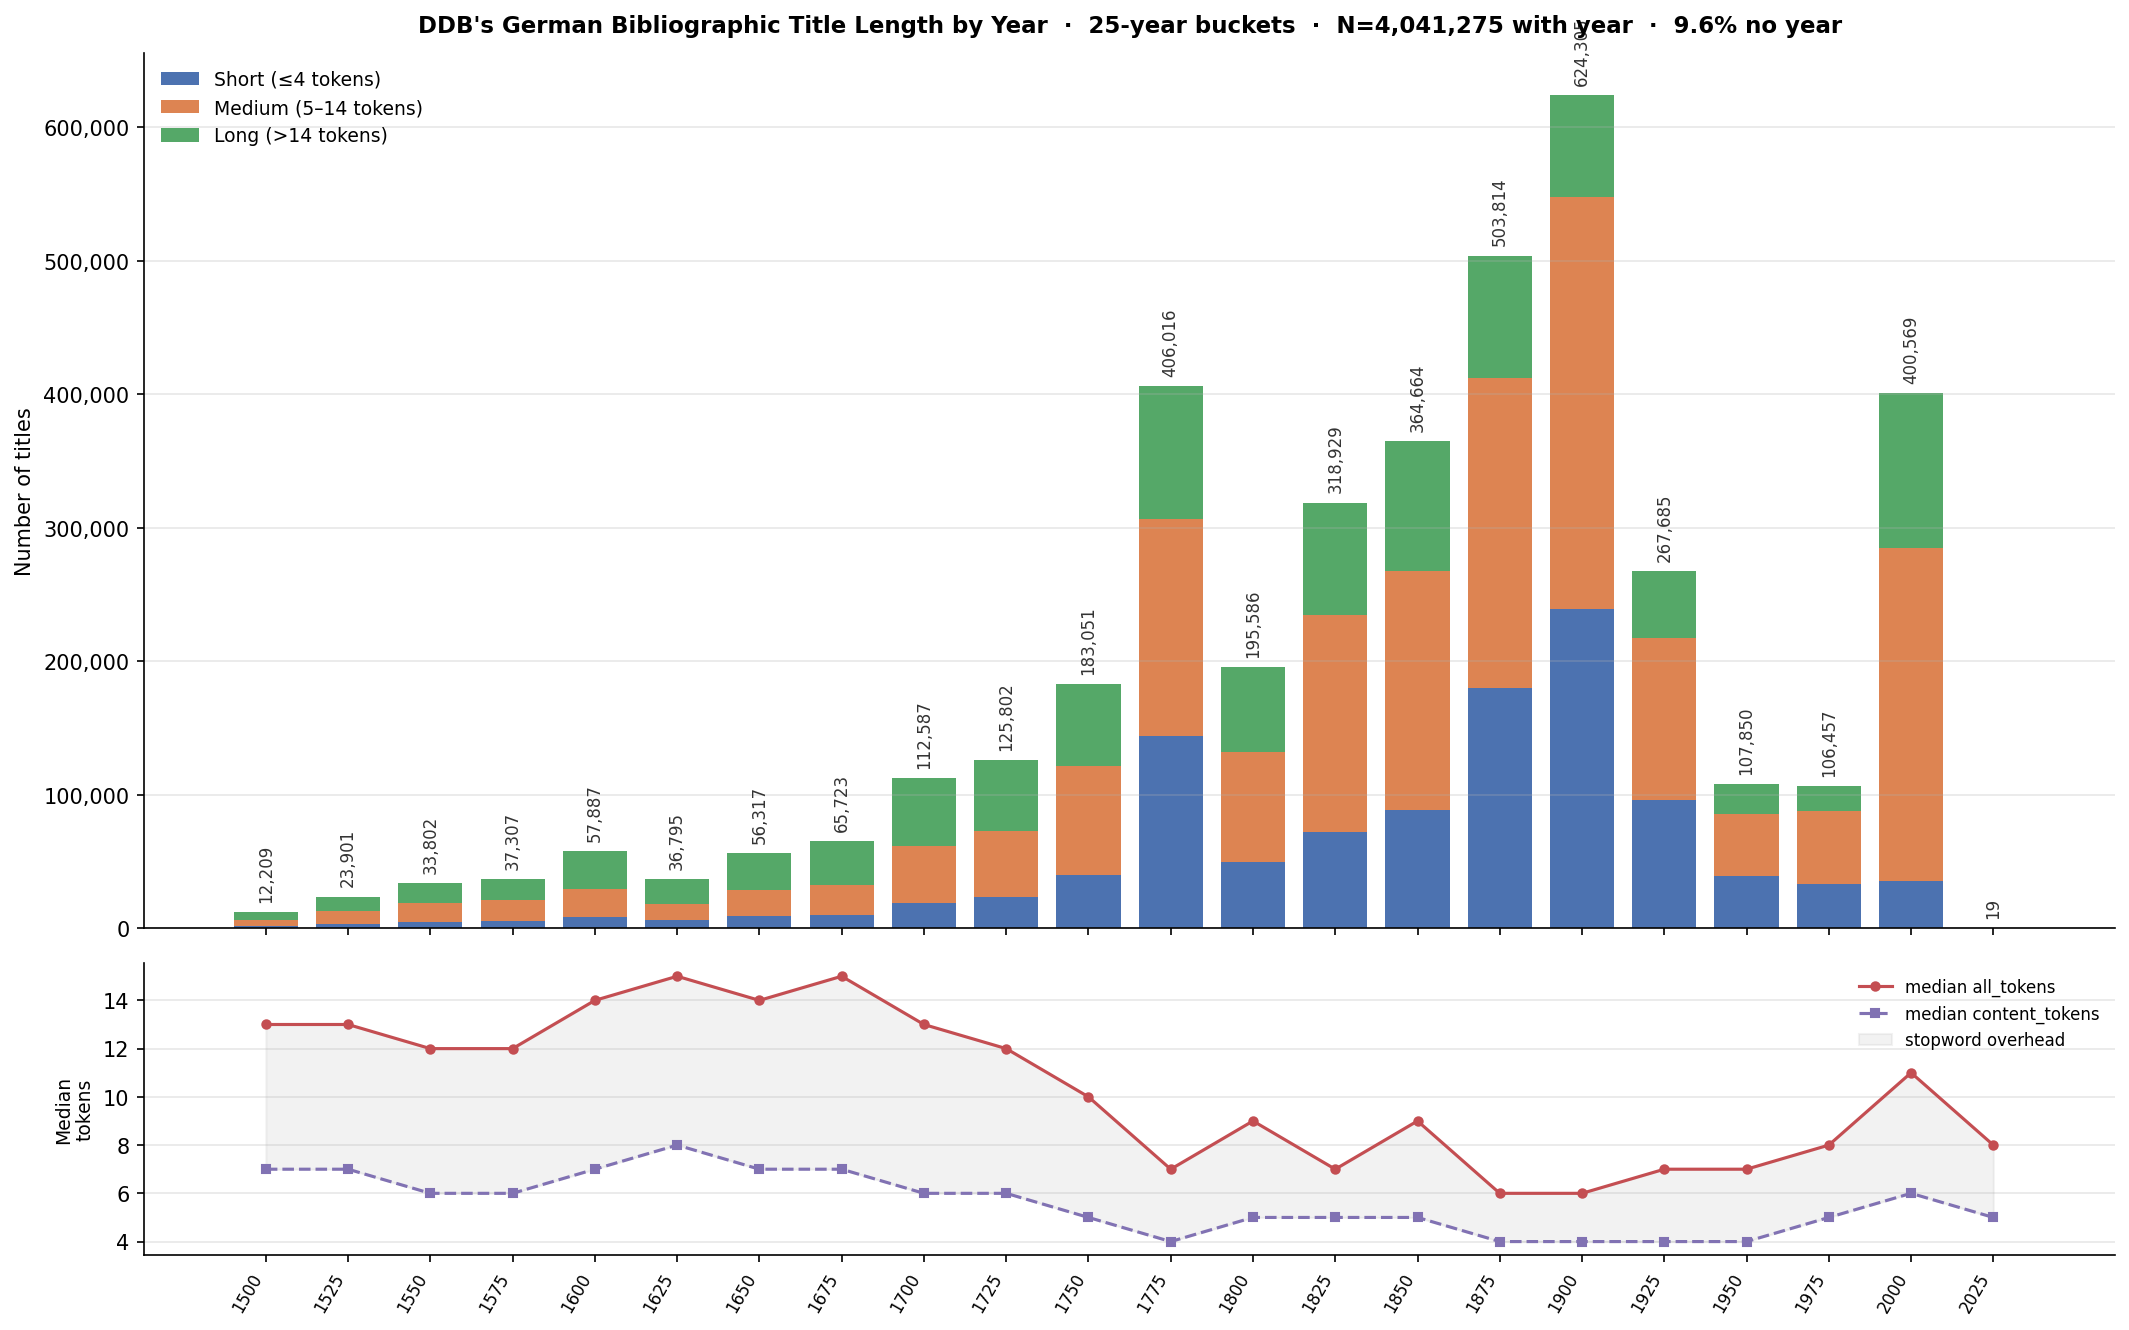
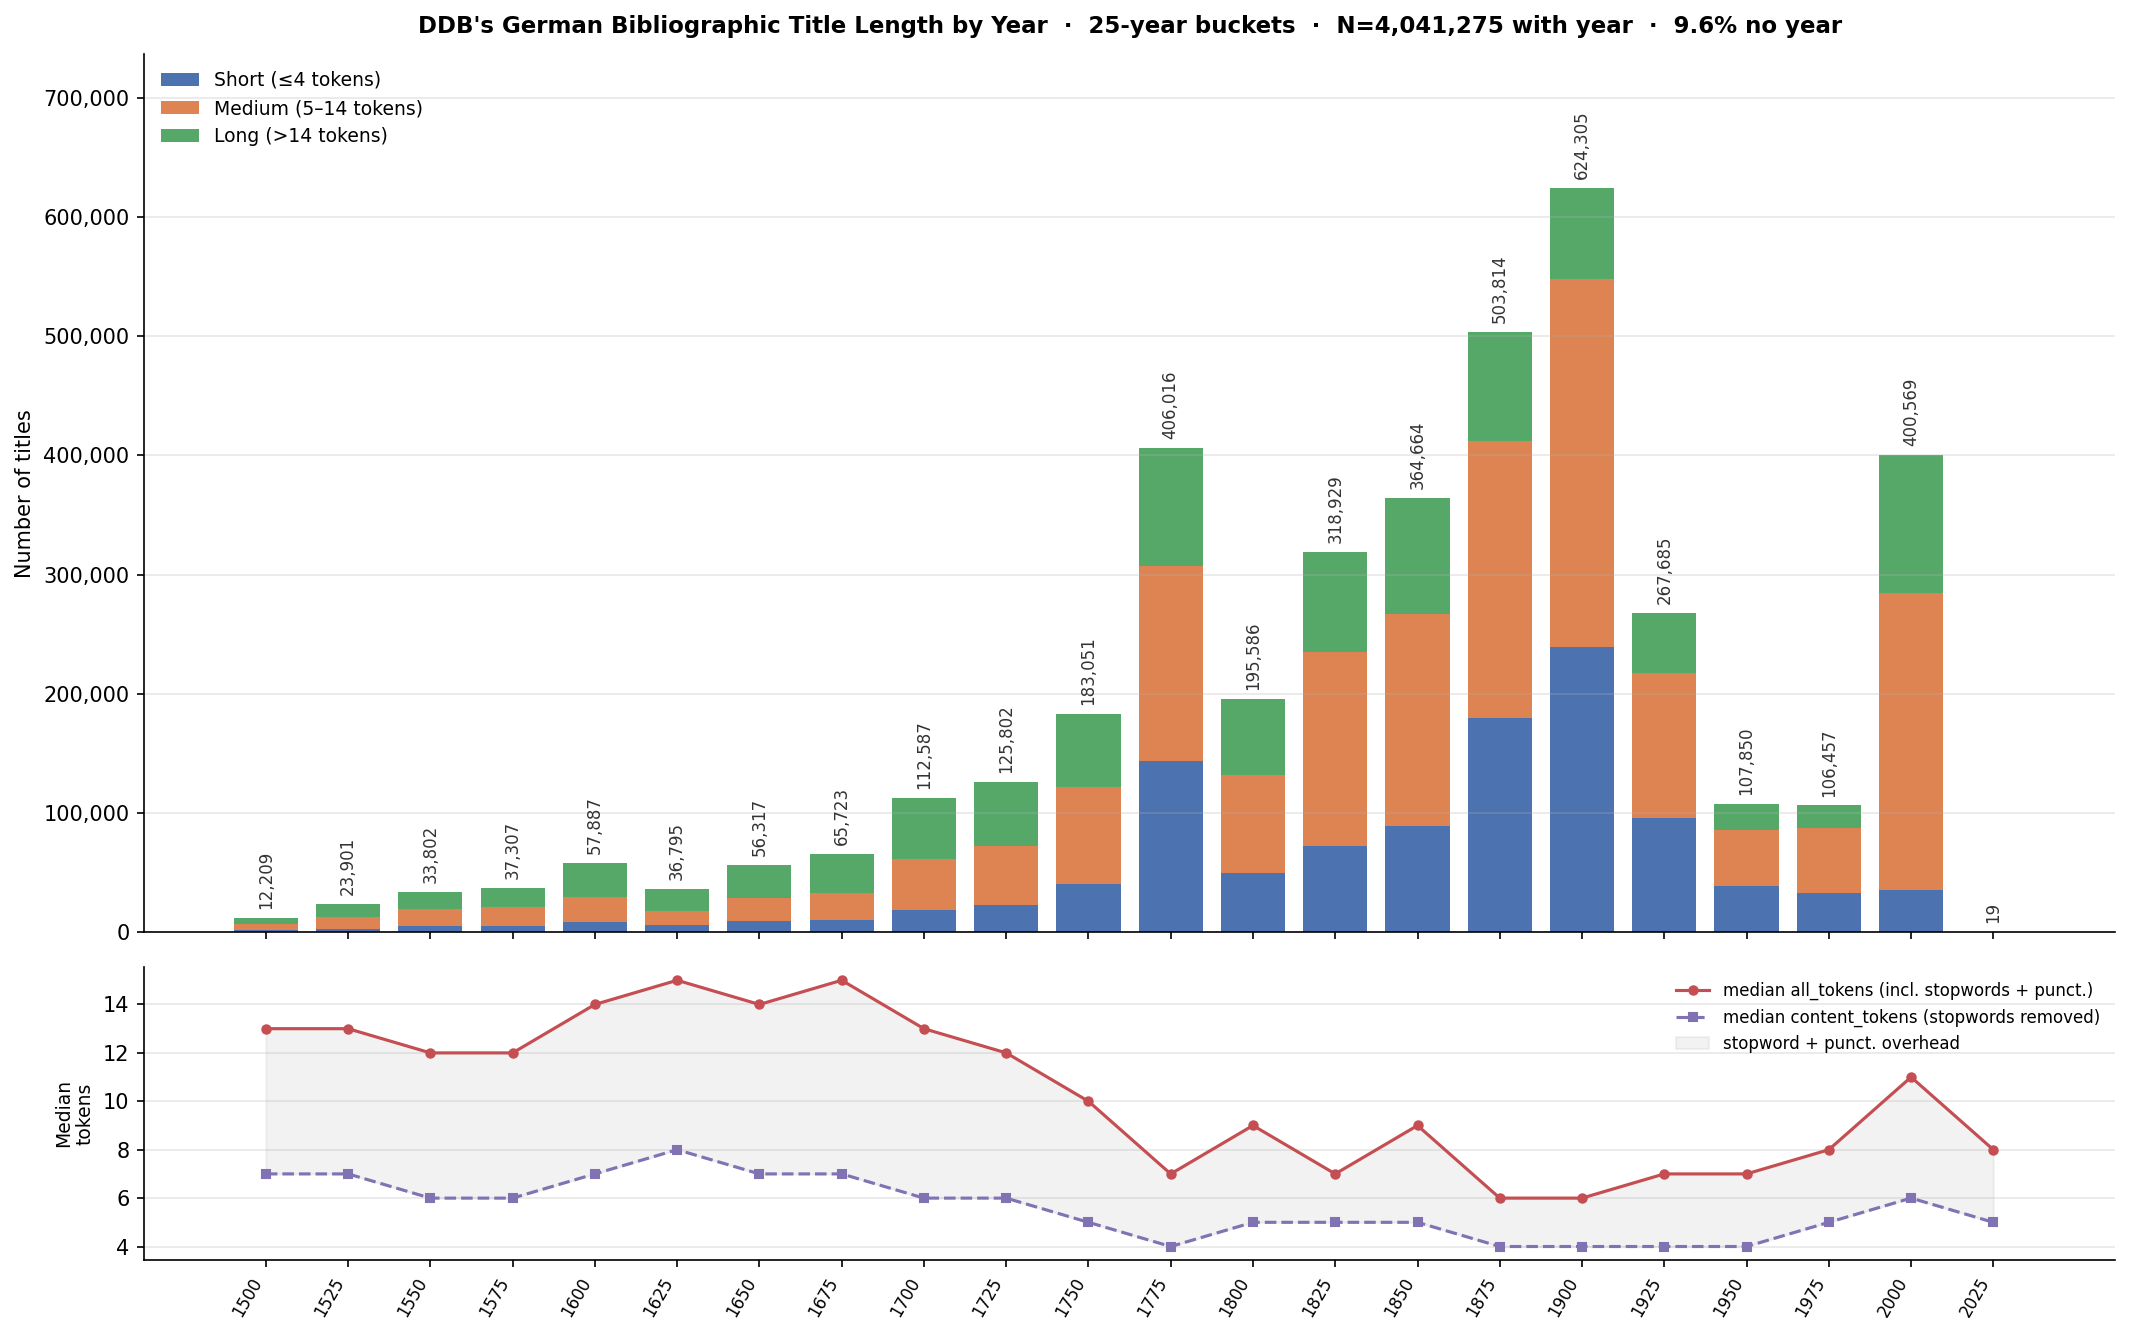
fixed figure

diff --git a/scripts/analyse_title_lengths.py b/scripts/analyse_title_lengths.py
@@ -274,6 +274,7 @@ def main(data_path: Path, output_dir: Path) -> None:
     ax1.legend(frameon=False, fontsize=9, loc="upper left")
 
     vmax = max(totals) if totals else 1
+    ax1.set_ylim(0, vmax * 1.18)  # headroom for rotated annotations above tallest bar
     for i, tot in enumerate(totals):
         ax1.text(i, tot + vmax * 0.012, f"{tot:,}",
                  ha="center", va="bottom", fontsize=8, rotation=90, color="#333333")